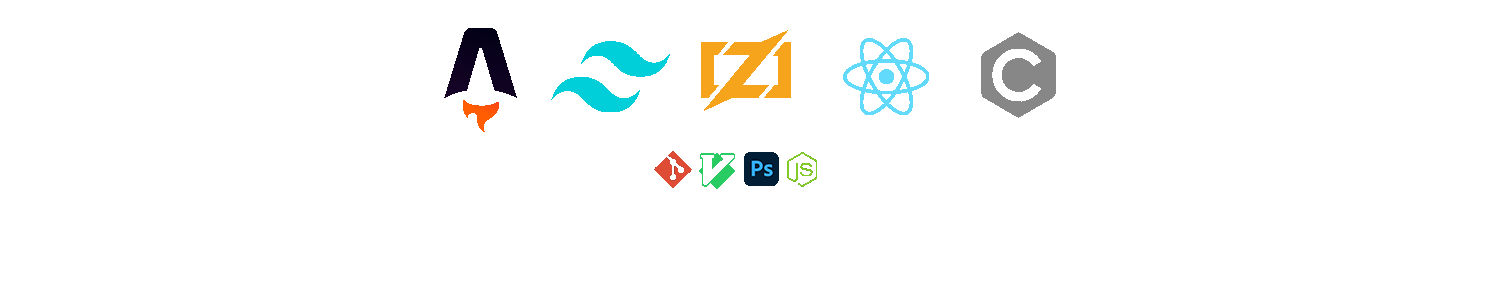
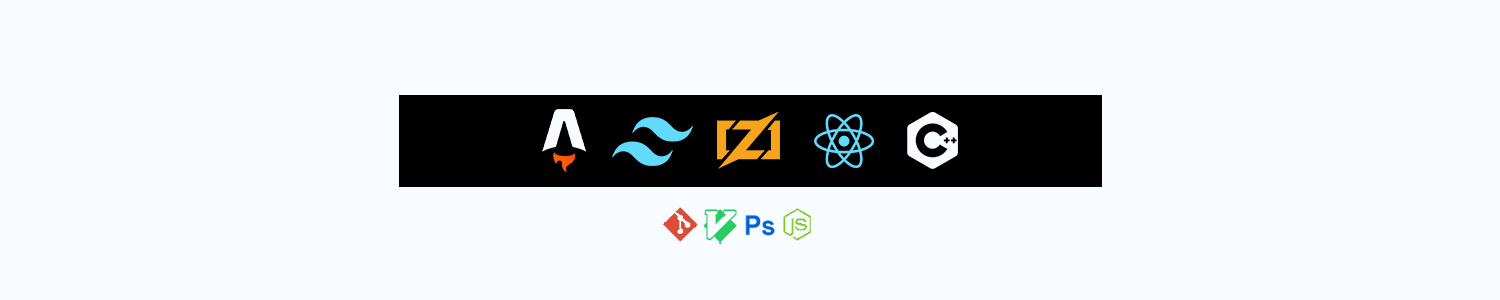
more sections about skills

Changed region(s): [[0.2453, 0.09, 0.736, 0.63], [0.4293, 0.69, 0.552, 0.81]]

diff --git a/README.md b/README.md
@@ -1,9 +1,9 @@
 <div align="center">
 
-**[![About](./seek/About.png)](https://www.seekvisualartist.com)**
-![Skills](./seek/Palette.png)
+**[![About](./seek/Header.png)](https://www.seekvisualartist.com)**
+![Skills](./seek/About.png)
 ![Skills](./seek/2.png)
-![Skills](./seek/Palette.png)
+![Skills](./seek/Skills.png)
 ![Skills](./seek/3.png)
 ![Skills](./seek/Palette.png)
 ![Skills](./seek/4.png)
